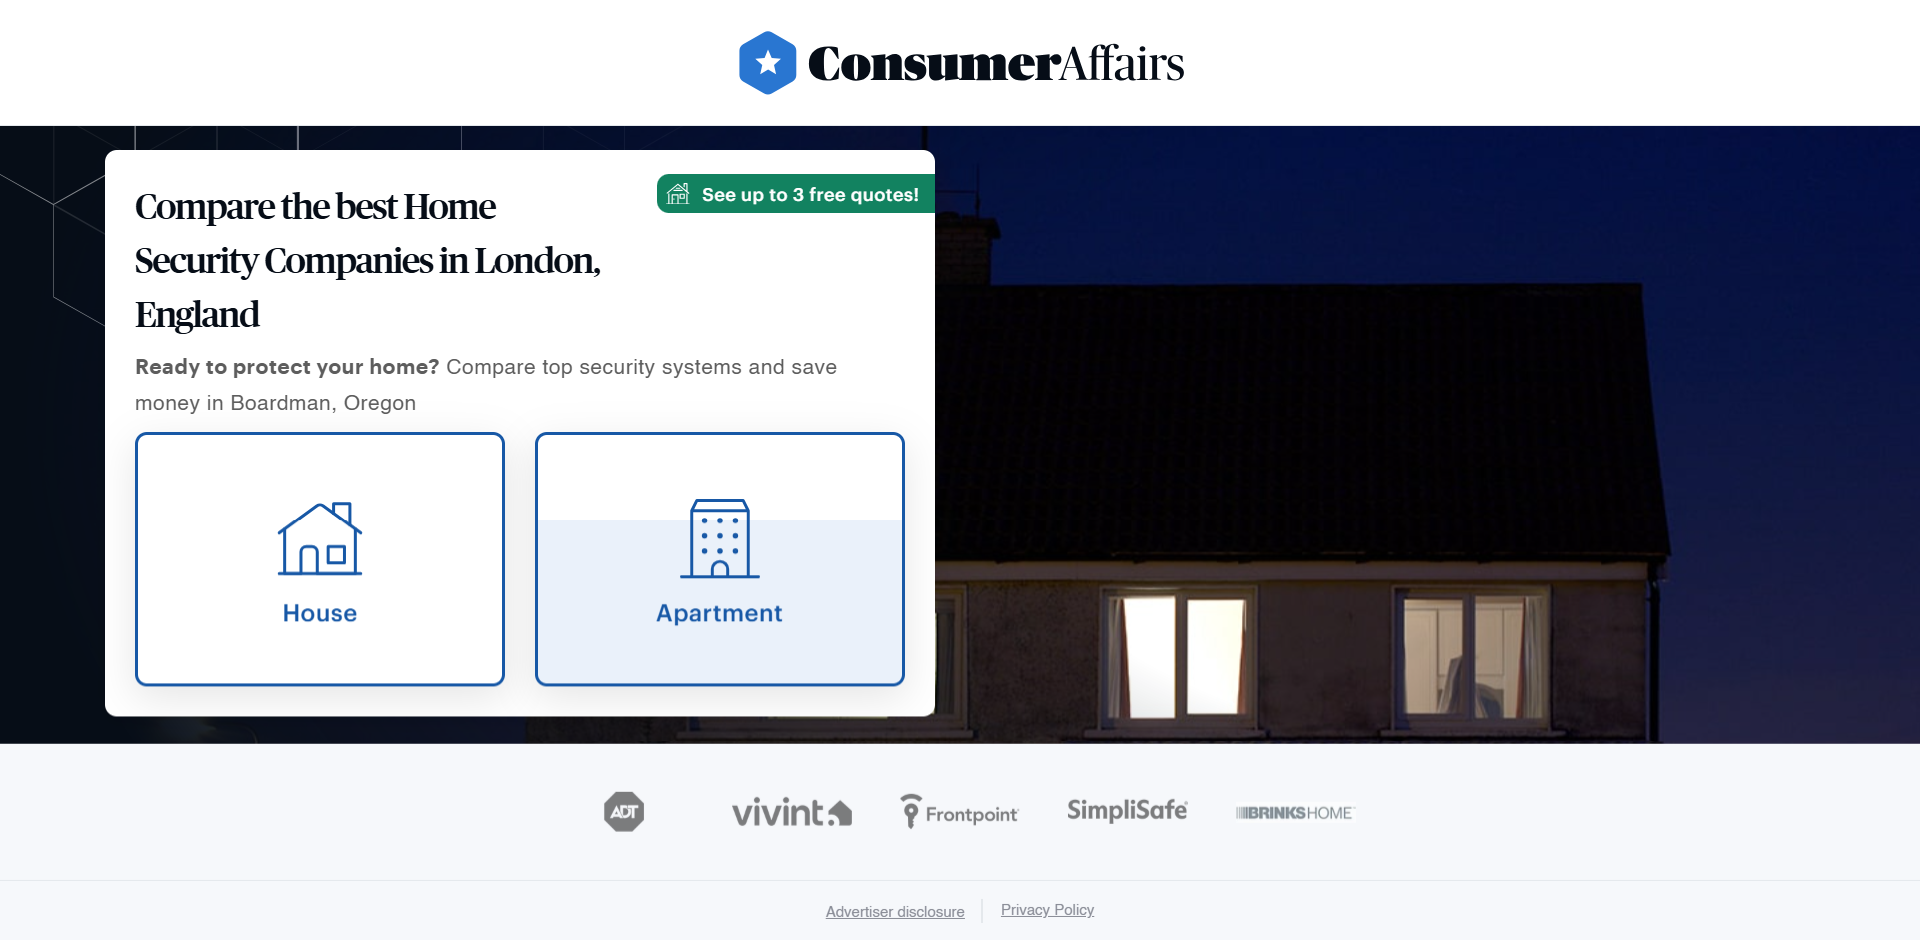
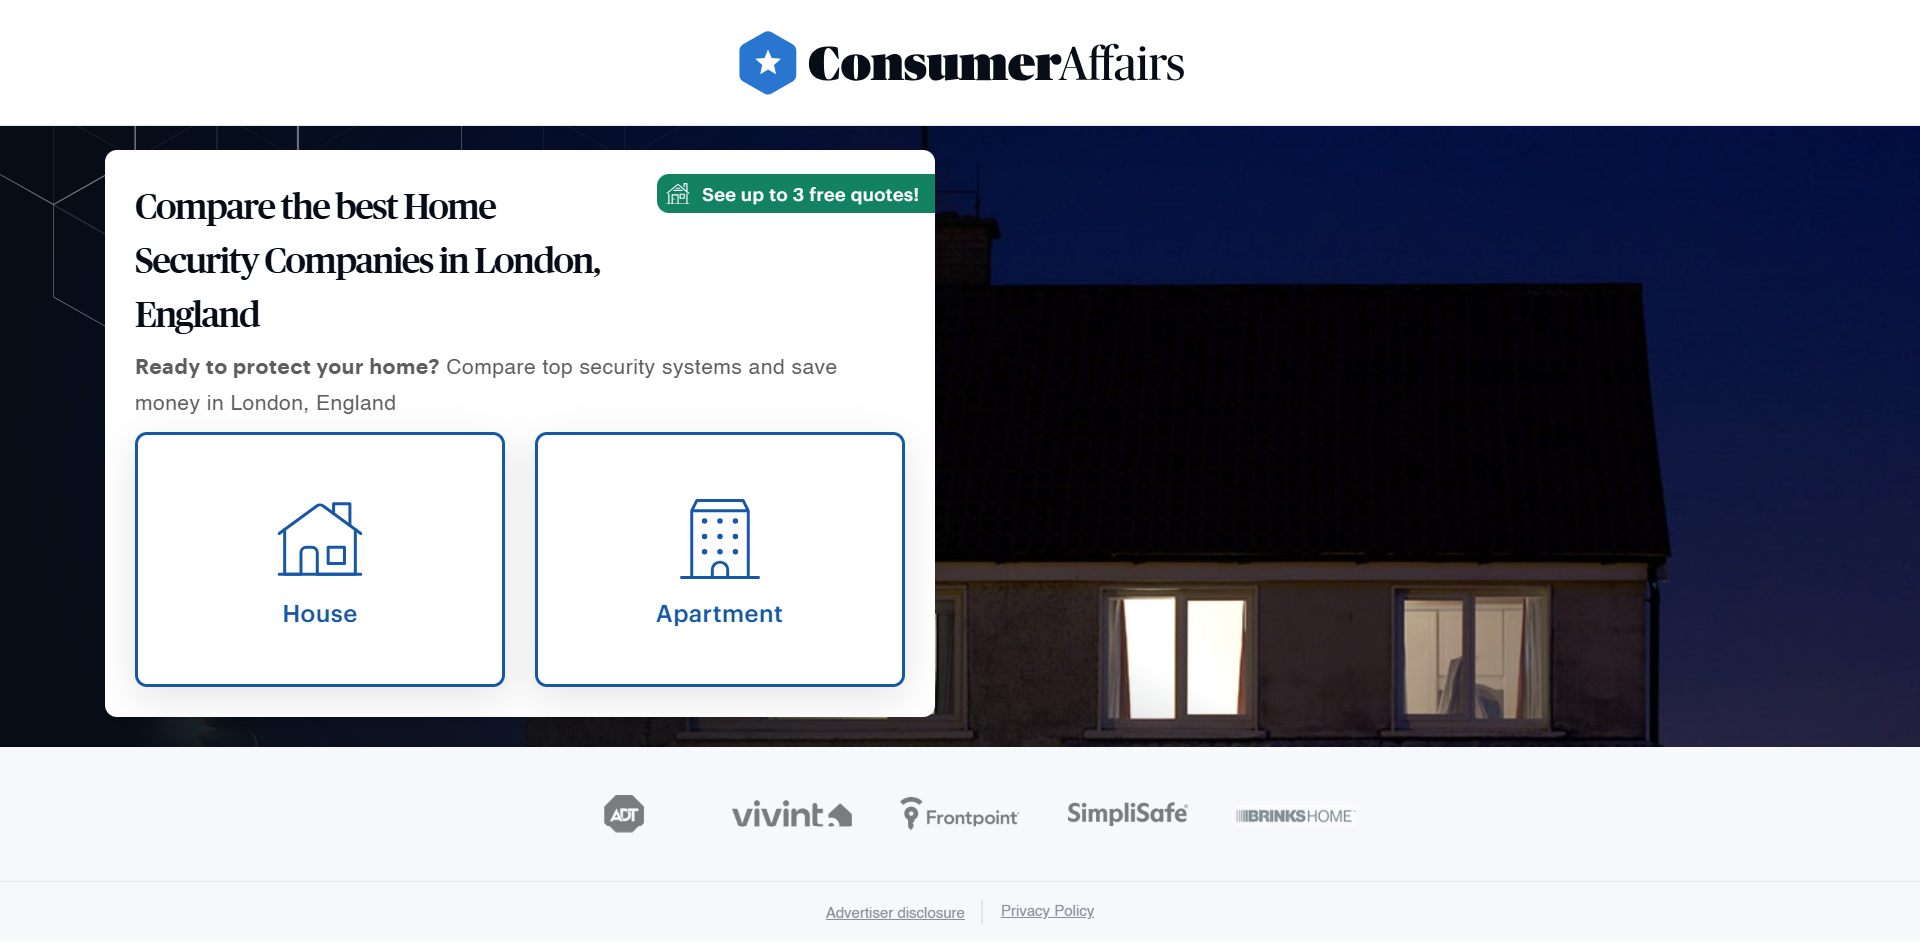
replaced static location with dynamic location for variation 3

diff --git a/SD-323/Variation 3/variant.js b/SD-323/Variation 3/variant.js
@@ -8,6 +8,18 @@ console.log('Welcome to Coframe!');
 // Select the h3.hip-lp__card-dscrptn element
 const h3 = document.querySelector('.hip-lp__card-dscrptn');
 if (h3) {
+  // Extract location from h1.hip-lp__ttl
+  let location = 'your area'; // fallback
+  const h1 = document.querySelector('.hip-lp__ttl');
+  if (h1) {
+    const h1Text = h1.textContent;
+    // Extract location from text like "Compare the best Home Security Companies in London, England"
+    const match = h1Text.match(/in\s+(.+?)$/);
+    if (match) {
+      location = match[1].trim();
+    }
+  }
+  
   // Update the text inside the <b> element
   const bElement = h3.querySelector('b');
   if (bElement) {
@@ -19,7 +31,7 @@ if (h3) {
     const node = h3.childNodes[i];
     if (node.nodeType === 3) { // Text node
       if (node.textContent.includes('Confirm to get prices')) {
-        node.textContent = '\nCompare top security systems and save money in Boardman, Oregon';
+        node.textContent = `\nCompare top security systems and save money in ${location}`;
       }
     }
   }
